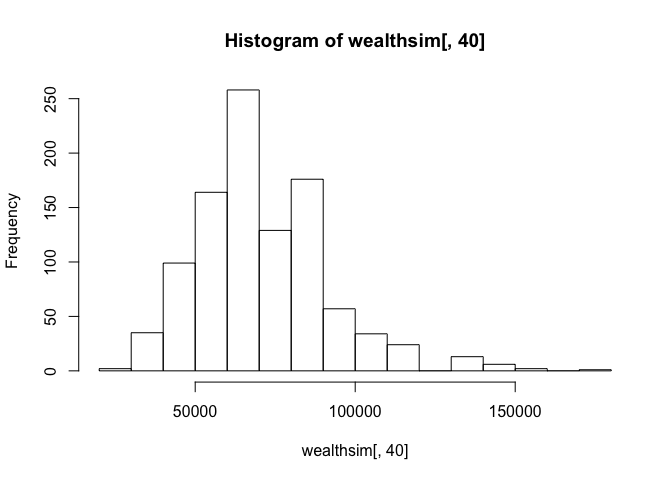
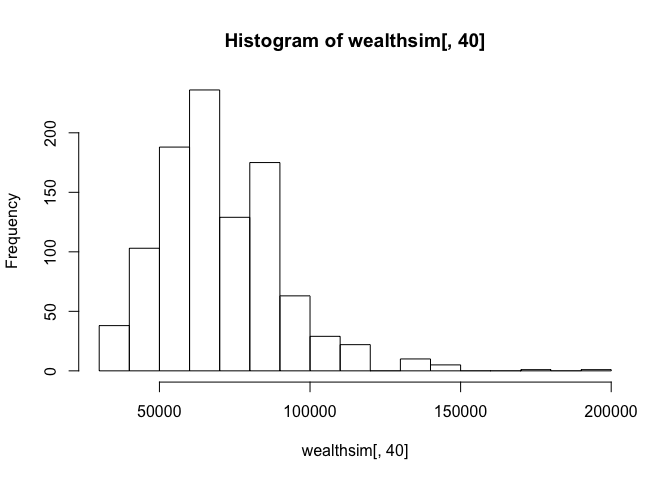
monte carlo

diff --git a/montecarlo/montecarlo_intro.md b/montecarlo/montecarlo_intro.md
@@ -1,7 +1,3 @@
----
-layout: post
----
-
 Monte Carlo simulation
 ----------------------
 
@@ -220,7 +216,7 @@ wealth changes from one simulation to the next:
     }
     Wealth
 
-    ## [1] 89543.02
+    ## [1] 74002.5
 
 If you want, you can also add print statements (this is optional). I'm
 going to make these "print" statements a little more concise, using R's
@@ -239,46 +235,46 @@ going to make these "print" statements a little more concise, using R's
       cat("\n")  # adds a new line
     }
 
-    ## Year =  1, Old Wealth =  10000, New Wealth =  11000
-    ## Year =  2, Old Wealth =  11000, New Wealth =  12100
-    ## Year =  3, Old Wealth =  12100, New Wealth =  12100
-    ## Year =  4, Old Wealth =  12100, New Wealth =  12100
-    ## Year =  5, Old Wealth =  12100, New Wealth =  13310
-    ## Year =  6, Old Wealth =  13310, New Wealth =  14641
-    ## Year =  7, Old Wealth =  14641, New Wealth =  14641
-    ## Year =  8, Old Wealth =  14641, New Wealth =  14641
-    ## Year =  9, Old Wealth =  14641, New Wealth =  14641
-    ## Year =  10, Old Wealth =  14641, New Wealth =  16105.1
-    ## Year =  11, Old Wealth =  16105.1, New Wealth =  16105.1
-    ## Year =  12, Old Wealth =  16105.1, New Wealth =  16105.1
-    ## Year =  13, Old Wealth =  16105.1, New Wealth =  17715.61
-    ## Year =  14, Old Wealth =  17715.61, New Wealth =  17715.61
-    ## Year =  15, Old Wealth =  17715.61, New Wealth =  17715.61
-    ## Year =  16, Old Wealth =  17715.61, New Wealth =  17715.61
-    ## Year =  17, Old Wealth =  17715.61, New Wealth =  19487.17
-    ## Year =  18, Old Wealth =  19487.17, New Wealth =  19487.17
-    ## Year =  19, Old Wealth =  19487.17, New Wealth =  19487.17
-    ## Year =  20, Old Wealth =  19487.17, New Wealth =  19487.17
-    ## Year =  21, Old Wealth =  19487.17, New Wealth =  21435.89
-    ## Year =  22, Old Wealth =  21435.89, New Wealth =  23579.48
-    ## Year =  23, Old Wealth =  23579.48, New Wealth =  23579.48
-    ## Year =  24, Old Wealth =  23579.48, New Wealth =  23579.48
-    ## Year =  25, Old Wealth =  23579.48, New Wealth =  25937.42
-    ## Year =  26, Old Wealth =  25937.42, New Wealth =  28531.17
-    ## Year =  27, Old Wealth =  28531.17, New Wealth =  31384.28
-    ## Year =  28, Old Wealth =  31384.28, New Wealth =  31384.28
-    ## Year =  29, Old Wealth =  31384.28, New Wealth =  34522.71
-    ## Year =  30, Old Wealth =  34522.71, New Wealth =  37974.98
+    ## Year =  1, Old Wealth =  10000, New Wealth =  10000
+    ## Year =  2, Old Wealth =  10000, New Wealth =  11000
+    ## Year =  3, Old Wealth =  11000, New Wealth =  11000
+    ## Year =  4, Old Wealth =  11000, New Wealth =  12100
+    ## Year =  5, Old Wealth =  12100, New Wealth =  12100
+    ## Year =  6, Old Wealth =  12100, New Wealth =  12100
+    ## Year =  7, Old Wealth =  12100, New Wealth =  12100
+    ## Year =  8, Old Wealth =  12100, New Wealth =  12100
+    ## Year =  9, Old Wealth =  12100, New Wealth =  12100
+    ## Year =  10, Old Wealth =  12100, New Wealth =  12100
+    ## Year =  11, Old Wealth =  12100, New Wealth =  13310
+    ## Year =  12, Old Wealth =  13310, New Wealth =  13310
+    ## Year =  13, Old Wealth =  13310, New Wealth =  13310
+    ## Year =  14, Old Wealth =  13310, New Wealth =  14641
+    ## Year =  15, Old Wealth =  14641, New Wealth =  16105.1
+    ## Year =  16, Old Wealth =  16105.1, New Wealth =  16105.1
+    ## Year =  17, Old Wealth =  16105.1, New Wealth =  17715.61
+    ## Year =  18, Old Wealth =  17715.61, New Wealth =  19487.17
+    ## Year =  19, Old Wealth =  19487.17, New Wealth =  21435.89
+    ## Year =  20, Old Wealth =  21435.89, New Wealth =  23579.48
+    ## Year =  21, Old Wealth =  23579.48, New Wealth =  23579.48
+    ## Year =  22, Old Wealth =  23579.48, New Wealth =  23579.48
+    ## Year =  23, Old Wealth =  23579.48, New Wealth =  25937.42
+    ## Year =  24, Old Wealth =  25937.42, New Wealth =  28531.17
+    ## Year =  25, Old Wealth =  28531.17, New Wealth =  31384.28
+    ## Year =  26, Old Wealth =  31384.28, New Wealth =  31384.28
+    ## Year =  27, Old Wealth =  31384.28, New Wealth =  34522.71
+    ## Year =  28, Old Wealth =  34522.71, New Wealth =  37974.98
+    ## Year =  29, Old Wealth =  37974.98, New Wealth =  37974.98
+    ## Year =  30, Old Wealth =  37974.98, New Wealth =  37974.98
     ## Year =  31, Old Wealth =  37974.98, New Wealth =  41772.48
-    ## Year =  32, Old Wealth =  41772.48, New Wealth =  41772.48
-    ## Year =  33, Old Wealth =  41772.48, New Wealth =  45949.73
+    ## Year =  32, Old Wealth =  41772.48, New Wealth =  45949.73
+    ## Year =  33, Old Wealth =  45949.73, New Wealth =  45949.73
     ## Year =  34, Old Wealth =  45949.73, New Wealth =  45949.73
     ## Year =  35, Old Wealth =  45949.73, New Wealth =  50544.7
-    ## Year =  36, Old Wealth =  50544.7, New Wealth =  55599.17
-    ## Year =  37, Old Wealth =  55599.17, New Wealth =  61159.09
-    ## Year =  38, Old Wealth =  61159.09, New Wealth =  61159.09
-    ## Year =  39, Old Wealth =  61159.09, New Wealth =  67275
-    ## Year =  40, Old Wealth =  67275, New Wealth =  74002.5
+    ## Year =  36, Old Wealth =  50544.7, New Wealth =  50544.7
+    ## Year =  37, Old Wealth =  50544.7, New Wealth =  50544.7
+    ## Year =  38, Old Wealth =  50544.7, New Wealth =  50544.7
+    ## Year =  39, Old Wealth =  50544.7, New Wealth =  50544.7
+    ## Year =  40, Old Wealth =  50544.7, New Wealth =  55599.17
 
 ### Saving the trajectory of wealth over time
 
@@ -314,7 +310,7 @@ following block of code several times.
     }
     plot(WealthTracker)
 
-![](montecarlo_intro_files/figure-markdown_strict/unnamed-chunk-11-1.png)<!-- -->
+![](montecarlo_intro_files/figure-markdown_strict/unnamed-chunk-11-1.png)
 
 ### Multiple realizations: a Monte Carlo simulation
 
@@ -364,41 +360,41 @@ lines:
 
     head(wealthsim)
 
-    ##      V1    V2    V3    V4    V5      V6      V7       V8       V9      V10
-    ## 1 11000 11000 11000 12100 12100 12100.0 13310.0 14641.00 16105.10 17715.61
-    ## 2 11000 11000 12100 13310 13310 14641.0 16105.1 16105.10 17715.61 19487.17
-    ## 3 11000 12100 12100 13310 13310 14641.0 14641.0 14641.00 16105.10 17715.61
-    ## 4 11000 12100 13310 13310 13310 14641.0 16105.1 17715.61 17715.61 19487.17
-    ## 5 10000 11000 12100 13310 14641 16105.1 16105.1 17715.61 19487.17 21435.89
-    ## 6 11000 11000 11000 11000 12100 12100.0 12100.0 13310.00 14641.00 14641.00
-    ##        V11      V12      V13      V14      V15      V16      V17      V18
-    ## 1 17715.61 19487.17 19487.17 21435.89 21435.89 21435.89 23579.48 25937.42
-    ## 2 19487.17 19487.17 21435.89 21435.89 21435.89 21435.89 21435.89 21435.89
-    ## 3 17715.61 19487.17 21435.89 21435.89 21435.89 23579.48 23579.48 25937.42
-    ## 4 19487.17 19487.17 21435.89 21435.89 21435.89 21435.89 21435.89 21435.89
-    ## 5 23579.48 23579.48 23579.48 23579.48 25937.42 25937.42 25937.42 25937.42
-    ## 6 14641.00 16105.10 16105.10 16105.10 16105.10 17715.61 17715.61 17715.61
-    ##        V19      V20      V21      V22      V23      V24      V25      V26
-    ## 1 28531.17 31384.28 31384.28 34522.71 34522.71 34522.71 34522.71 37974.98
-    ## 2 21435.89 23579.48 23579.48 25937.42 28531.17 31384.28 31384.28 34522.71
-    ## 3 25937.42 28531.17 31384.28 34522.71 37974.98 37974.98 41772.48 41772.48
-    ## 4 21435.89 21435.89 23579.48 23579.48 25937.42 28531.17 28531.17 28531.17
-    ## 5 28531.17 31384.28 34522.71 34522.71 37974.98 41772.48 41772.48 41772.48
-    ## 6 17715.61 19487.17 21435.89 23579.48 23579.48 25937.42 25937.42 28531.17
-    ##        V27      V28      V29      V30      V31      V32      V33      V34
-    ## 1 41772.48 41772.48 45949.73 45949.73 45949.73 50544.70 55599.17 61159.09
-    ## 2 37974.98 37974.98 41772.48 45949.73 45949.73 45949.73 50544.70 55599.17
-    ## 3 45949.73 50544.70 50544.70 50544.70 55599.17 55599.17 61159.09 67275.00
-    ## 4 28531.17 28531.17 31384.28 31384.28 31384.28 31384.28 34522.71 34522.71
-    ## 5 41772.48 45949.73 45949.73 50544.70 50544.70 50544.70 55599.17 61159.09
-    ## 6 28531.17 28531.17 31384.28 34522.71 37974.98 41772.48 41772.48 41772.48
-    ##        V35      V36      V37      V38      V39      V40
-    ## 1 61159.09 67275.00 74002.50 81402.75 81402.75 81402.75
-    ## 2 61159.09 67275.00 67275.00 74002.50 74002.50 81402.75
-    ## 3 67275.00 67275.00 74002.50 74002.50 74002.50 74002.50
-    ## 4 34522.71 34522.71 34522.71 37974.98 41772.48 41772.48
-    ## 5 67275.00 74002.50 81402.75 81402.75 81402.75 81402.75
-    ## 6 41772.48 45949.73 45949.73 45949.73 50544.70 50544.70
+    ##      V1    V2    V3    V4    V5      V6       V7       V8       V9
+    ## 1 11000 12100 12100 12100 13310 14641.0 16105.10 17715.61 17715.61
+    ## 2 11000 11000 12100 13310 14641 14641.0 14641.00 14641.00 14641.00
+    ## 3 10000 11000 11000 11000 12100 12100.0 13310.00 13310.00 13310.00
+    ## 4 10000 11000 11000 11000 11000 11000.0 12100.00 12100.00 12100.00
+    ## 5 11000 12100 13310 13310 14641 16105.1 17715.61 17715.61 17715.61
+    ## 6 11000 12100 12100 12100 12100 13310.0 14641.00 14641.00 16105.10
+    ##        V10      V11      V12      V13      V14      V15      V16      V17
+    ## 1 19487.17 19487.17 21435.89 21435.89 21435.89 21435.89 23579.48 23579.48
+    ## 2 14641.00 16105.10 16105.10 16105.10 16105.10 16105.10 17715.61 17715.61
+    ## 3 13310.00 13310.00 14641.00 16105.10 16105.10 17715.61 19487.17 21435.89
+    ## 4 13310.00 14641.00 14641.00 16105.10 17715.61 17715.61 17715.61 19487.17
+    ## 5 17715.61 17715.61 17715.61 17715.61 17715.61 19487.17 21435.89 23579.48
+    ## 6 17715.61 17715.61 17715.61 17715.61 19487.17 21435.89 21435.89 23579.48
+    ##        V18      V19      V20      V21      V22      V23      V24      V25
+    ## 1 23579.48 25937.42 25937.42 25937.42 25937.42 28531.17 31384.28 31384.28
+    ## 2 19487.17 21435.89 23579.48 25937.42 25937.42 28531.17 31384.28 34522.71
+    ## 3 23579.48 23579.48 23579.48 25937.42 28531.17 28531.17 28531.17 28531.17
+    ## 4 21435.89 23579.48 23579.48 25937.42 25937.42 28531.17 28531.17 31384.28
+    ## 5 23579.48 23579.48 23579.48 23579.48 25937.42 25937.42 28531.17 28531.17
+    ## 6 23579.48 23579.48 25937.42 25937.42 25937.42 28531.17 31384.28 31384.28
+    ##        V26      V27      V28      V29      V30      V31      V32      V33
+    ## 1 34522.71 34522.71 37974.98 41772.48 41772.48 41772.48 45949.73 45949.73
+    ## 2 34522.71 34522.71 34522.71 37974.98 37974.98 41772.48 45949.73 45949.73
+    ## 3 31384.28 31384.28 34522.71 37974.98 37974.98 37974.98 37974.98 37974.98
+    ## 4 34522.71 34522.71 34522.71 34522.71 37974.98 37974.98 41772.48 41772.48
+    ## 5 31384.28 34522.71 37974.98 37974.98 41772.48 45949.73 50544.70 50544.70
+    ## 6 34522.71 34522.71 34522.71 37974.98 37974.98 37974.98 37974.98 37974.98
+    ##        V34      V35      V36      V37      V38      V39      V40
+    ## 1 45949.73 45949.73 50544.70 55599.17 55599.17 61159.09 61159.09
+    ## 2 50544.70 55599.17 61159.09 61159.09 61159.09 67275.00 74002.50
+    ## 3 41772.48 45949.73 50544.70 55599.17 55599.17 61159.09 67275.00
+    ## 4 45949.73 50544.70 50544.70 50544.70 50544.70 50544.70 55599.17
+    ## 5 50544.70 55599.17 55599.17 55599.17 55599.17 61159.09 61159.09
+    ## 6 41772.48 41772.48 45949.73 50544.70 50544.70 55599.17 55599.17
 
 Each row corresponds to a single Monte Carlo simulation for the
 trajectory for your portfolio (of which there are 1000). Each column
@@ -408,15 +404,15 @@ column of `wealthsim`:
 
     hist(wealthsim[,40], 20)
 
-![](montecarlo_intro_files/figure-markdown_strict/unnamed-chunk-15-1.png)<!-- -->
+![](montecarlo_intro_files/figure-markdown_strict/unnamed-chunk-15-1.png)
 
     mean(wealthsim[,40])
 
-    ## [1] 70774.49
+    ## [1] 69869.3
 
     sd(wealthsim[,40])
 
-    ## [1] 21738.86
+    ## [1] 21383.21
 
 The expected value of your portfolio is about $70,000 after 40 years,
 with a standard deviation of about $20,000.
